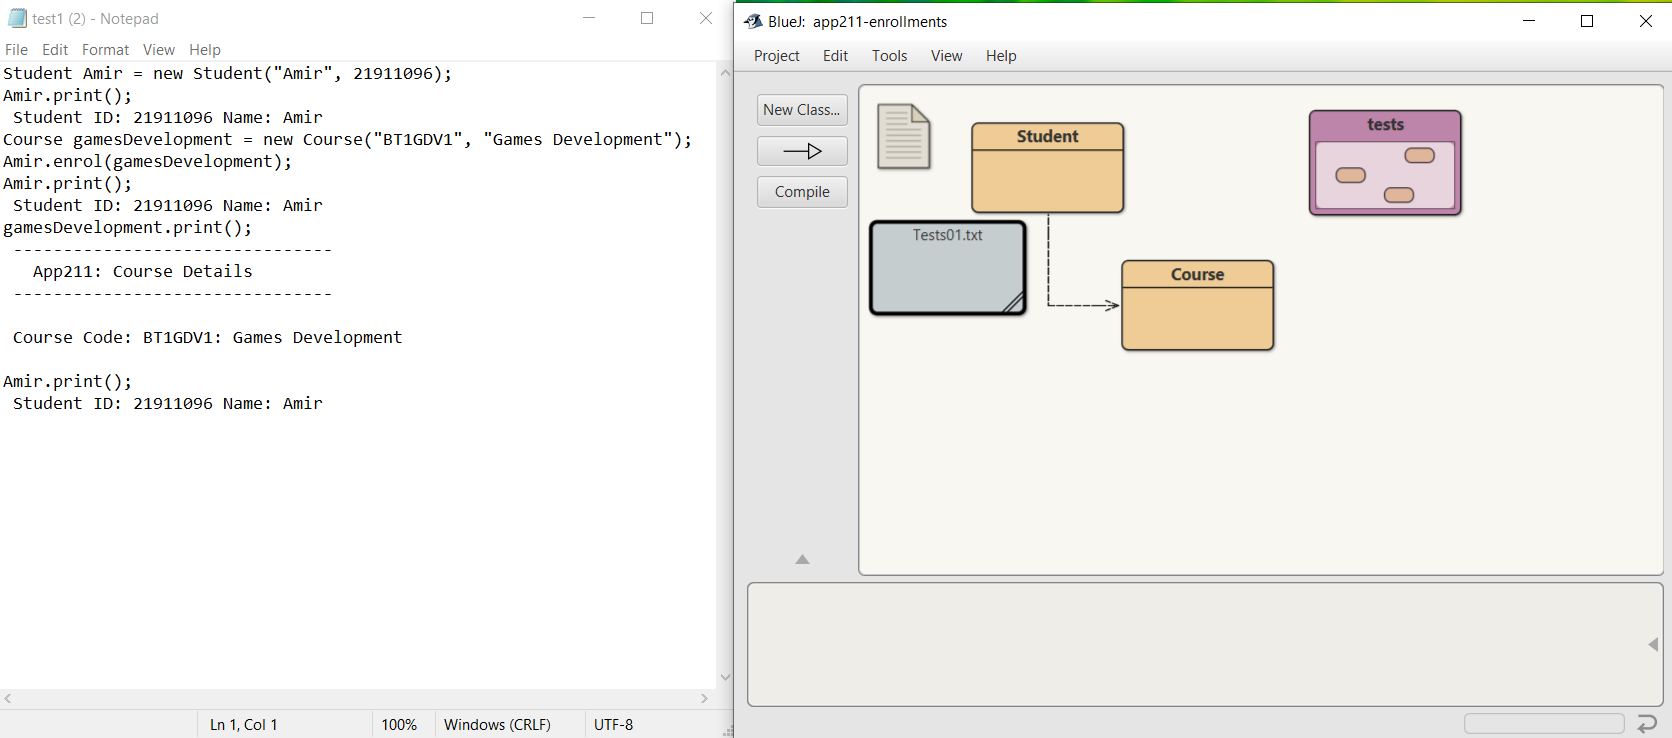
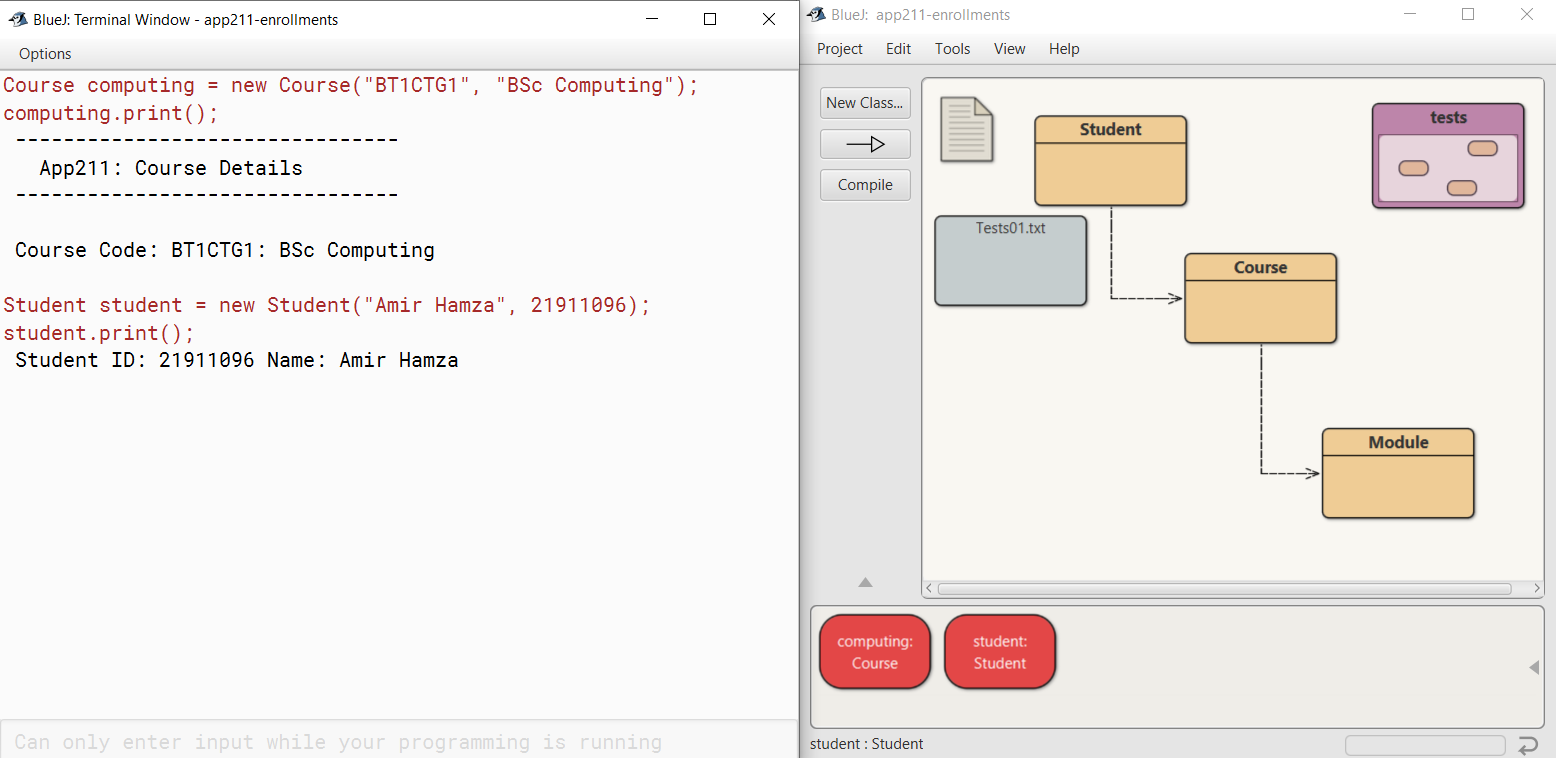
changed information

diff --git a/app211-enrollments/Course.java b/app211-enrollments/Course.java
@@ -37,7 +37,7 @@ public class Course
         
         System.out.println(" Course Code: " + code + ": " + title);
         System.out.println();
-        module.print();
+        //module.print();
     }
     
     /**
